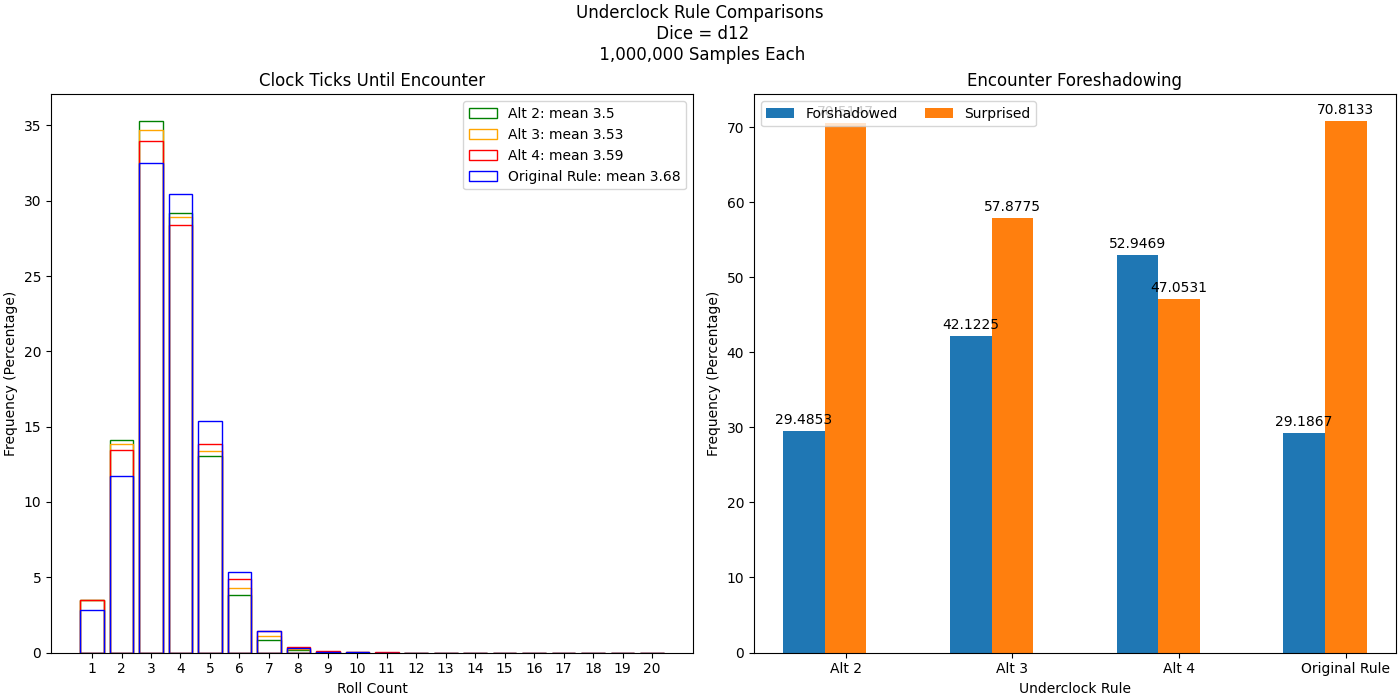
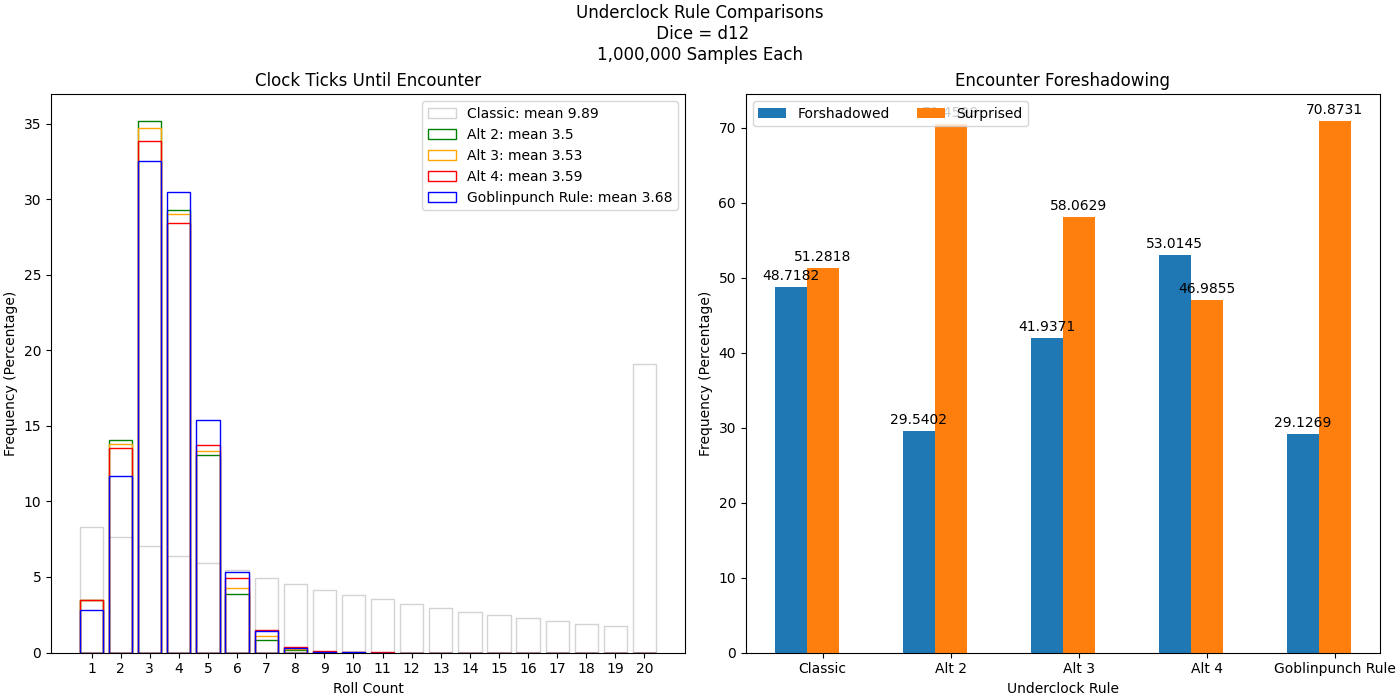
Add classic random encounter rule

diff --git a/underclock_rules_compared.py b/underclock_rules_compared.py
@@ -29,7 +29,7 @@ def underclock(rule, n, d=6, tries=20):
 
 def original_rule(rolls, clock, ticks, omens, run, d, x=3):
     """
-    Original underclock rule.
+    Goblinpunch underclock rule.
     - Encounter triggered when clock goes negative.
     - Ticks repeat on a Max roll (6 for d6)
     - Clock resets to x(=3) at exactly zero
@@ -59,6 +59,17 @@ def alternative_rule(rolls, clock, ticks, omens, run, d, x):
     return clock, ticks, omens, run
 
 
+def classic_random_encounter(rolls, clock, ticks, omens, run, *args):
+    r"""
+    A classic random encounter system where every turn the random encounter die
+    is rolled. On a 1 the encounter is triggered. On a 2 an omen is triggered.
+    """
+    run[rolls == 1] = False
+    ticks[run] += 1
+    omens[run & (rolls == 2)] = True
+    return clock, ticks, omens, run
+
+
 def plot_ticks(ax, bins, counts, color, label):
     """
     Histogram plot each of the rule tick results on provided ax.
@@ -75,14 +86,15 @@ def plot_ticks(ax, bins, counts, color, label):
 
 if __name__ == "__main__":
     N = int(1e6)
-    d = 4
+    d = 6
+    classic = underclock(lambda *args: classic_random_encounter(*args), N, d)
     orig = underclock(lambda *args: original_rule(*args, x=3), N, d)
     a4 = underclock(lambda *args: alternative_rule(*args, x=4), N, d)
     a3 = underclock(lambda *args: alternative_rule(*args, x=3), N, d)
     a2 = underclock(lambda *args: alternative_rule(*args, x=2), N, d)
 
     # ::::::::::::::::::: Plots :::::::::::::::::::
-    labels = ["Alt 2", "Alt 3", "Alt 4", "Original Rule"]
+    labels = ["Classic", "Alt 2", "Alt 3", "Alt 4", "Goblinpunch Rule"]
     fig, axs = plt.subplots(1, 2, figsize=(14, 7), layout="constrained")
     fig.suptitle(
         "Underclock Rule Comparisons\n" f" Dice = d{d}\n" f"{N:,} Samples Each"
@@ -93,15 +105,16 @@ if __name__ == "__main__":
     axs[0].set_xticks(np.arange(1, 21))
     axs[0].set_xlabel("Roll Count")
     axs[0].set_ylabel("Frequency (Percentage)")
-    plot_ticks(axs[0], *a2[0:2], "green", labels[0])
-    plot_ticks(axs[0], *a3[0:2], "orange", labels[1])
-    plot_ticks(axs[0], *a4[0:2], "red", labels[2])
-    plot_ticks(axs[0], *orig[0:2], "blue", labels[3])
+    plot_ticks(axs[0], *classic[0:2], "lightgray", labels[0])
+    plot_ticks(axs[0], *a2[0:2], "green", labels[1])
+    plot_ticks(axs[0], *a3[0:2], "orange", labels[2])
+    plot_ticks(axs[0], *a4[0:2], "red", labels[3])
+    plot_ticks(axs[0], *orig[0:2], "blue", labels[4])
     axs[0].legend()
 
     # Encounter Foreshadowing plot.
     axs[1].set_title("Encounter Foreshadowing")
-    omens = np.stack((a2[2], a3[2], a4[2], orig[2]), 1)
+    omens = np.stack((classic[2], a2[2], a3[2], a4[2], orig[2]), 1)
     x = np.arange(len(labels))
     multiplier = 0
 
